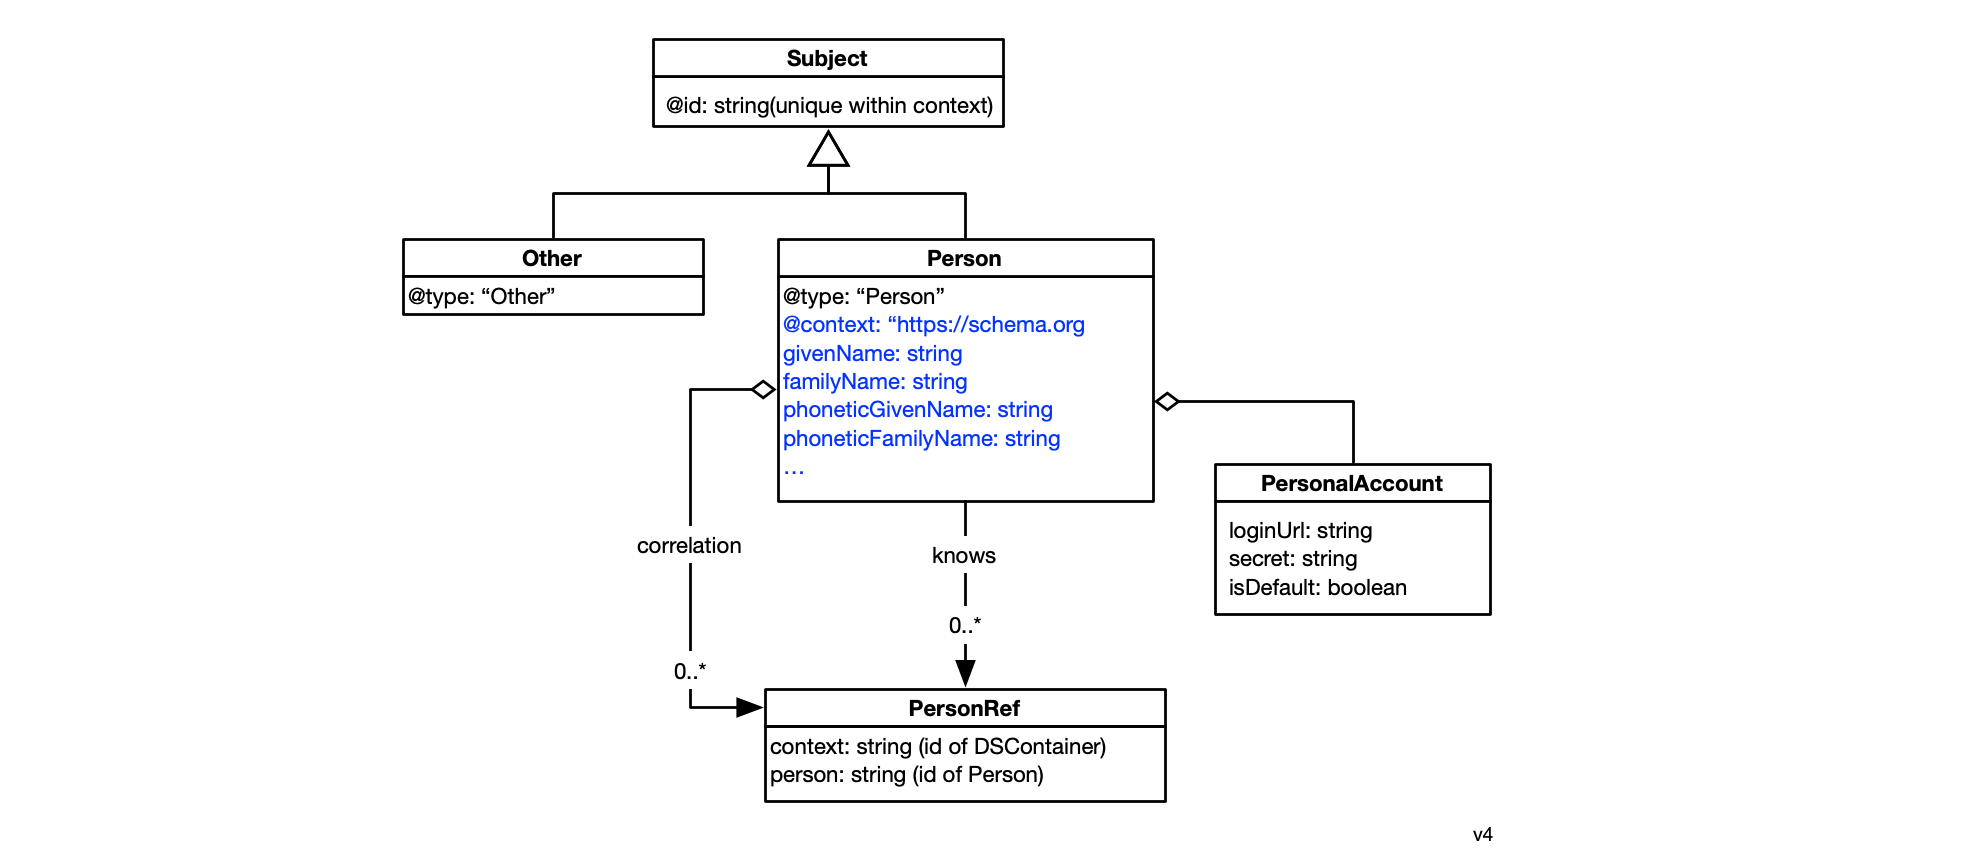
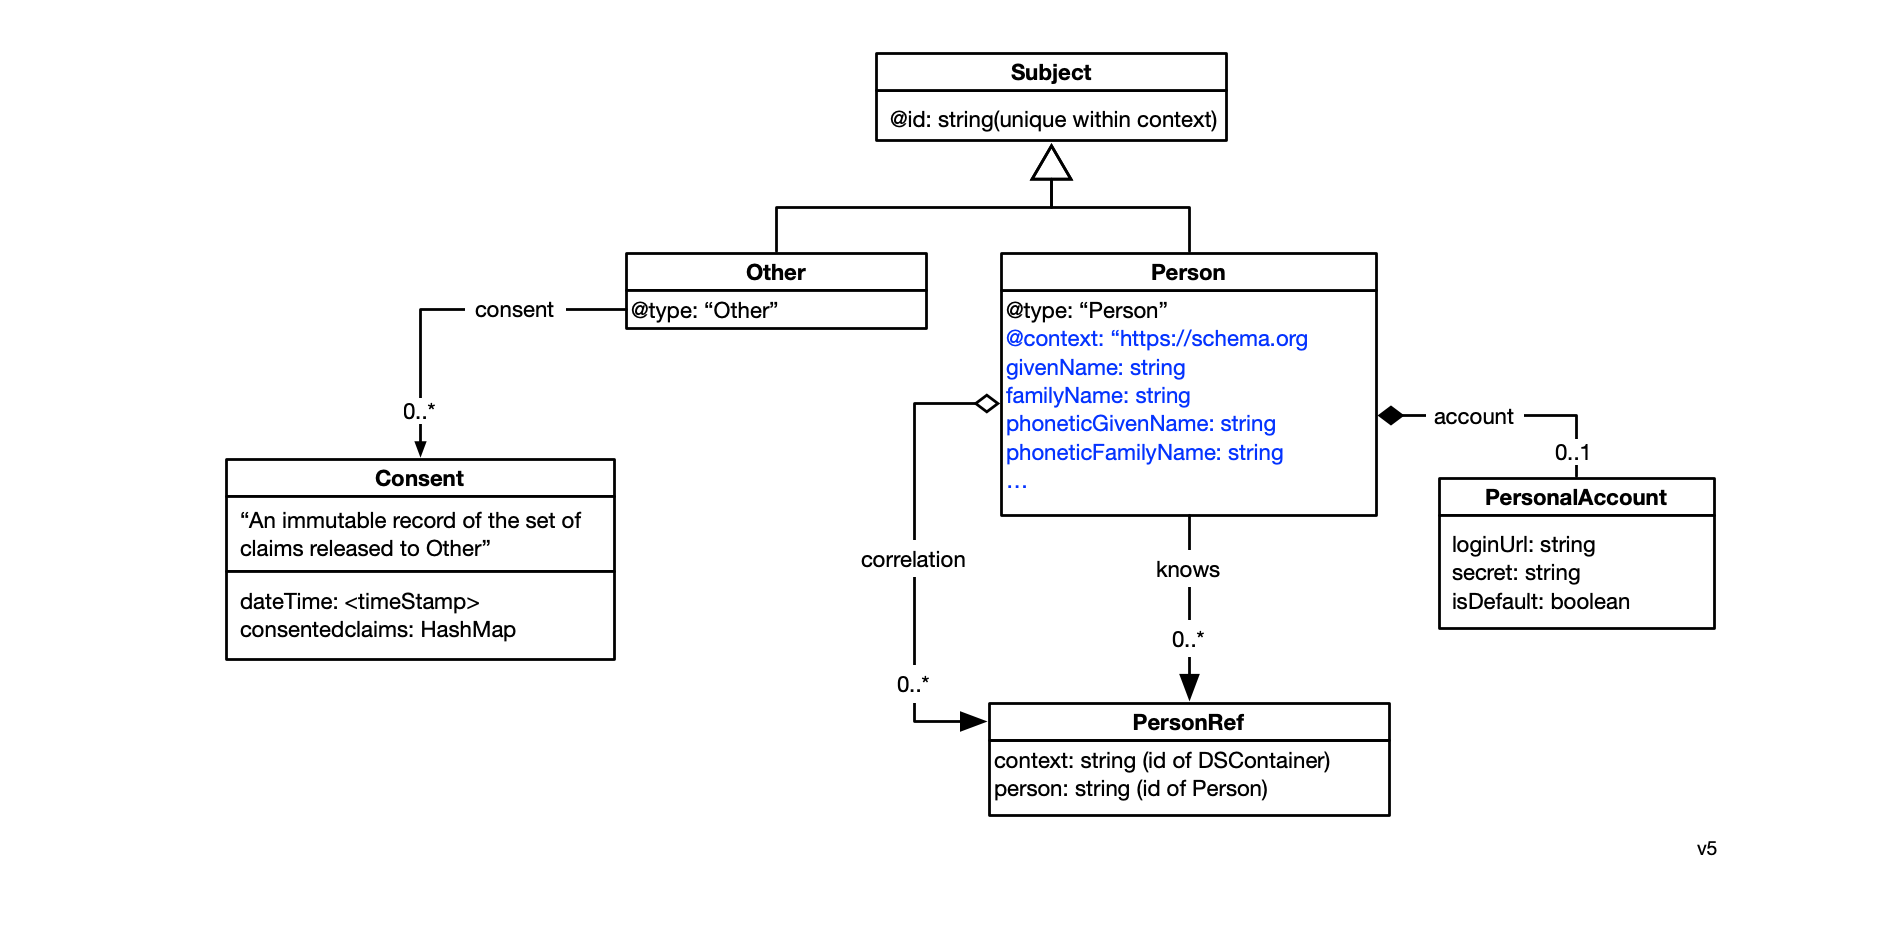
Added Consent class as child of Other

diff --git a/src/Data_model.md b/src/Data_model.md
@@ -28,9 +28,11 @@ We describe the data model in two parts. The first part describes the data conta
 
 ![framework-classes2](./images/container-classes.png)
 
-**Classes:**
+### **Classes**
 
-- **Others** - a container holding a set of Other nodes. Each Other represents another party with which the user is interacting via their agent's connections with local apps and websites. These Others may be other people or legal entities. If they are legal entities, they are often called relying parties, such as a digital service provider like Twitter, Inc.
+- **Others** - a container holding a set of Other nodes (see Persona Classes). Each Other node represents a party with the user has a connection. These Others may be other people or legal entities. If they are legal entities, they are often called relying parties, such as a digital service provider like Twitter, Inc. Each other has the following properties:
+  - context - a single Context that captures one aspect of the overall connection
+
 - **Self** - the single Container holding a single Person node that represents the selfness of the user
 - **Group** - an intermediate level container that holds a single Person node that represents a common role or persona that the user plays. A group has these attributes:
   - **name** - the name of the group 
@@ -92,9 +94,22 @@ As shown above, Alice has a direct connection with the bank (that communicates v
 
 Group and Context containers all contain information about subjects (things) that are described according to the persona schema. [We need to decide on the Persona Schema Description Language (SDL) and describe the concepts below using it]. In knowledge representation parlance, the Persona schema would be known as an *upper ontology.*
 
-In the Persona schema, people are be represented as instances of Person, that these Person instances are interconnected using *correlation* and *knows* relationships and stored in the containers mentioned in the previous section. A PersonalAccount class is also defined. These classes are shown below. The attributes (e.g. givenName, etc.) shown in blue below are illustrative only and not part of Persona. 
+In the Persona schema, people are be represented as instances of Person, A PersonalAccount class is also defined. These classes are shown below. 
 
 ![persona-classes](./images/persona-classes.png)
+
+### Classes
+
+- **Subject** -  kind of digital subject about which the agent stores information
+- **Person** - a natural person, a subclass of Subject. Each person has the following properties:
+  - A set of zero or more properties (e.g. givenName, etc.), called "claims". Those shown in blue above are illustrative only and not part of the Persona schema. 
+  - **account** - an optional PersonalAccount at some other party's site or app
+  - **correlation** - zero or more PersonRefs that act as a link to a target Person object representing another whoness of the link's source's person's selfness.
+  - **knows** - zero or more PersonRefs that link to a Person representing some other person (other than the user)
+- **Other** - a Subject representing another person or a legal entity with which the user has a connection. Each Other object has:
+  - **consents** - zero or more Consent objects. Each Consent has 
+    - dateTime - time stamp of when the user consented to share this set of claims
+    - claims[]  - a set of zero or more claims (note: claim types (e.g. "email address") not their values)
 
 **Extensions**
 
